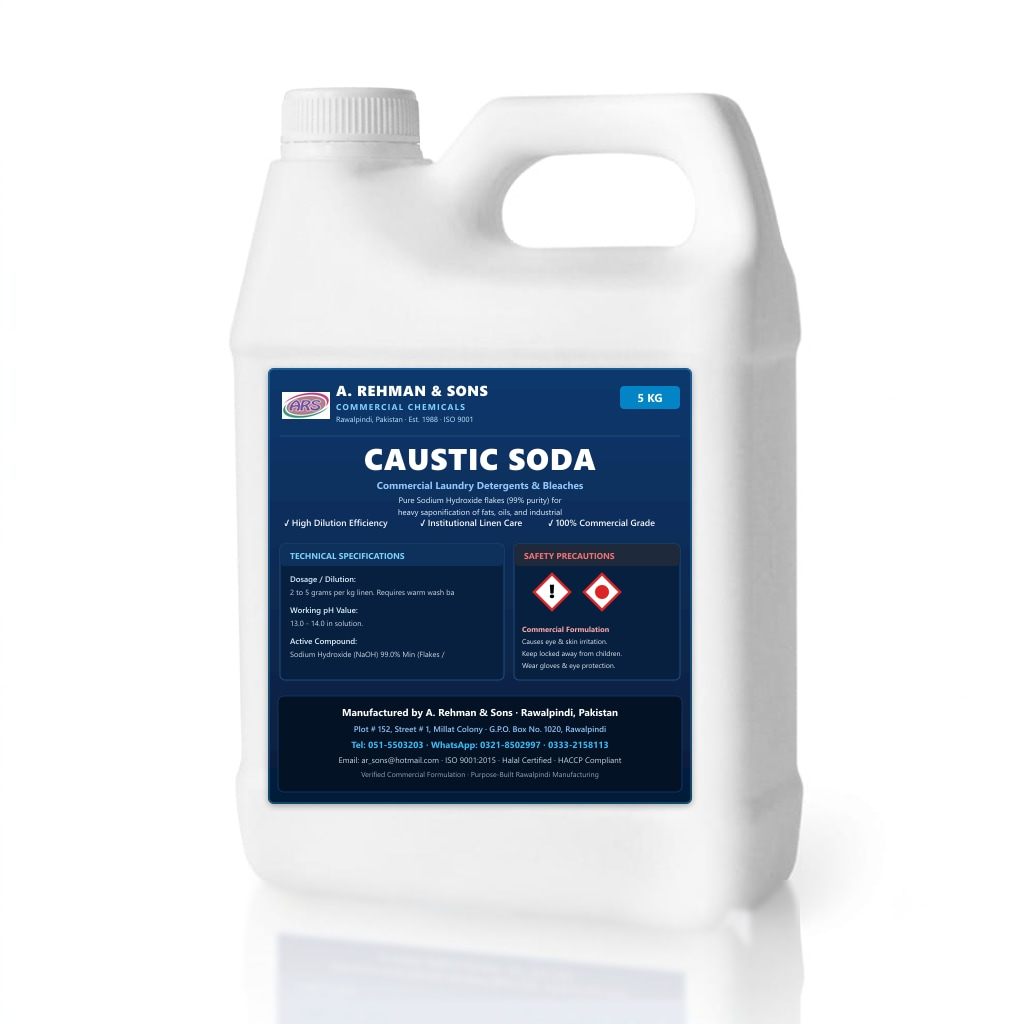
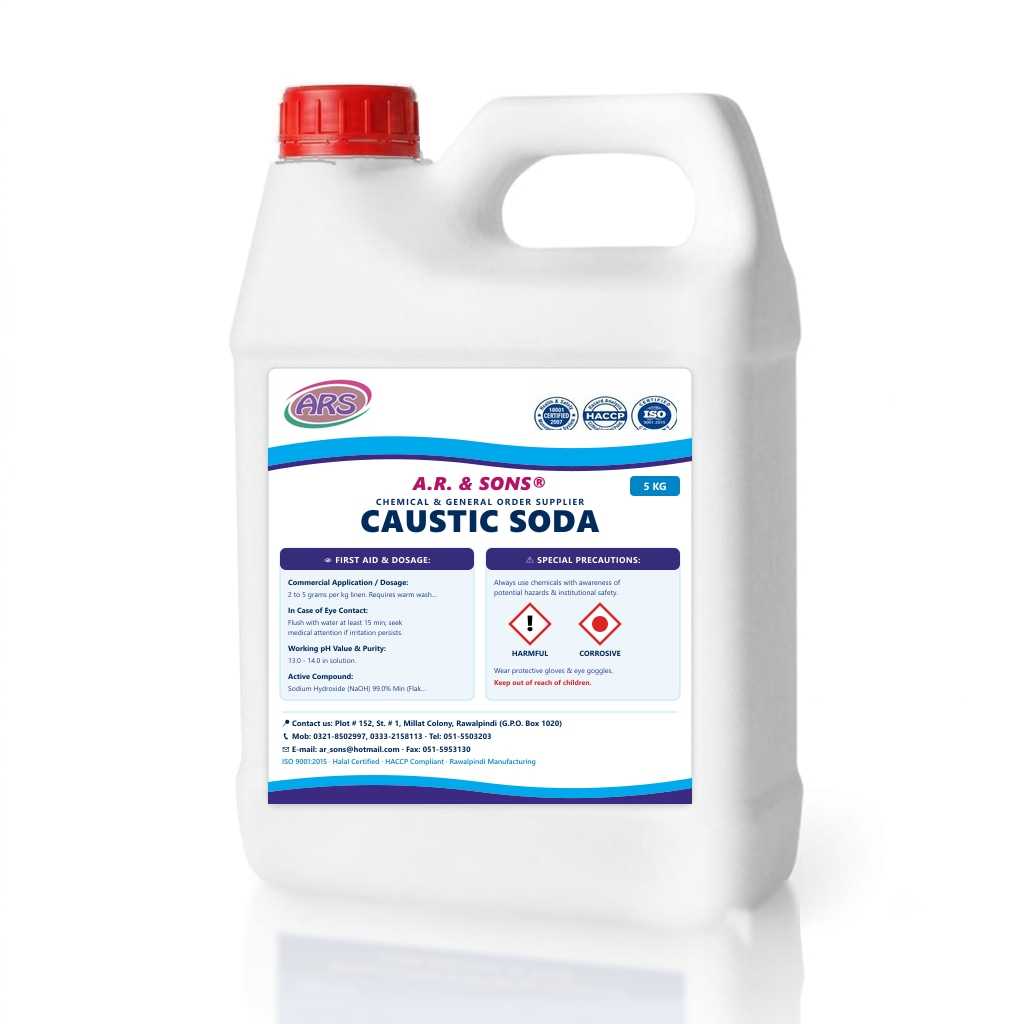
Update all 29 5kg mockups to match 25kg red cap and white label theme

Changed region(s): [[0.25, 0.3438, 0.6875, 0.8125], [0.25, 0.0625, 0.4375, 0.1562]]

diff --git a/scripts/generate_5kg_mockups.js b/scripts/generate_5kg_mockups.js
@@ -1,11 +1,14 @@
 /**
- * Generate 5 kg photorealistic product mockups (1024x1024) for all 29 products.
- * Features:
- * - Sealed, realistic ribbed cap on the canister neck.
- * - Perfectly aligned label covering the canister's recessed panel.
- * - Official A. Rehman & Sons (ARS) branding, logo, and Rawalpindi manufacturing credentials.
- * - Accurate contact info (Tel: 051-5503203, WhatsApp: 0321-8502997).
- * - Spotless studio reflection.
+ * Generate 5 kg photorealistic product mockups (1024x1024) matching the 25 kg color theme:
+ * - Bright red ribbed safety cap on top.
+ * - Clean white background label with rounded corners.
+ * - Official ARS oval logo on top-left.
+ * - Three circular certification seals on top-right (ISO 9001, HACCP, OHSAS 18001).
+ * - Cyan & purple ribbon wave banner with magenta "A.R. & SONS®" and navy "CHEMICAL & GENERAL ORDER SUPPLIER".
+ * - High-visibility 5 KG blue badge.
+ * - Deep navy product title.
+ * - Twin light-blue spec boxes with purple pill headers (First Aid/Dosage & Safety Precautions with GHS hazard diamonds).
+ * - Authentic Rawalpindi contact footer & bottom cyan/purple wave border.
  */
 
 const fs = require('fs');
@@ -14,8 +17,9 @@ const sharp = require('sharp');
 const { ARS_PRODUCTS } = require('../js/products.js');
 
 const ROOT = path.join(__dirname, '..');
-const BASE_IMG = path.join(ROOT, 'assets', 'products', 'mockups', '5kg', 'base_5kg_capped_perfect.png');
+const BASE_IMG = path.join(ROOT, 'assets', 'products', 'mockups', '5kg', 'base_5kg_redcap_perfect.png');
 const LOGO_IMG = path.join(ROOT, 'assets', 'logo.png');
+const SEALS_IMG = path.join(ROOT, 'assets', 'products', 'mockups', '5kg', 'seals.png');
 const OUT_DIR = path.join(ROOT, 'assets', 'products', 'mockups', '5kg');
 
 const LABEL = { x: 268, y: 368, w: 424, h: 436 };
@@ -29,140 +33,125 @@ function escapeXml(str) {
     .replace(/"/g, '&quot;');
 }
 
-function wrapText(text, maxChars = 52) {
-  if (!text) return [];
-  const words = text.split(/\s+/).filter(Boolean);
-  const lines = [];
-  let cur = '';
-  for (const w of words) {
-    if ((cur + ' ' + w).trim().length > maxChars) {
-      if (cur) lines.push(cur.trim());
-      cur = w;
-    } else {
-      cur = (cur + ' ' + w).trim();
-    }
-  }
-  if (cur) lines.push(cur.trim());
-  return lines;
+function truncateText(str, maxLen) {
+  if (!str) return '';
+  const clean = String(str).replace(/\s+/g, ' ').trim();
+  if (clean.length <= maxLen) return clean;
+  return clean.slice(0, maxLen - 1) + '…';
 }
-
-const CATEGORY_TAGLINES = {
-  laundry: "Commercial Laundry Detergents & Bleaches",
-  kitchen: "Commercial Kitchen & Dishwashing Solutions",
-  stewarding: "Specialized Stewarding & Destaining Formulations",
-  housekeeping: "Institutional Housekeeping & Facility Care"
-};
-
-const CATEGORY_BULLETS = {
-  laundry: ["✓ High Dilution Efficiency", "✓ Institutional Linen Care", "✓ 100% Commercial Grade"],
-  kitchen: ["✓ Heavy Grease Stripping", "✓ Food-Grade Formulation", "✓ Fast-Acting Degreaser"],
-  stewarding: ["✓ Deep Tannin & Stain Lifter", "✓ Melamine & Urn Safe", "✓ High Dilution Yield"],
-  housekeeping: ["✓ Hospital-Grade Sanitation", "✓ High-Yield Concentration", "✓ Multi-Surface Efficacy"]
-};
 
 function buildSvg(product) {
   const details = product.fullDetails || {};
-  const catTagline = CATEGORY_TAGLINES[product.category] || "Commercial Chemical Formulations";
-  const bullets = CATEGORY_BULLETS[product.category] || CATEGORY_BULLETS.laundry;
+  const dosage = truncateText(details.dosage || '3–8 ml per Kg of dry laundry load', 46);
+  const ph = truncateText(details.ph || '11.0 – 12.0 (Alkaline)', 34);
+  const active = truncateText(details.activeIngredients || 'Commercial active surfactants', 40);
 
-  const dosage = (details.dosage || '3–8 ml per Kg of dry laundry load').slice(0, 48);
-  const ph = (details.ph || '11.0 – 12.0 (Alkaline)').slice(0, 36);
-  const active = (details.activeIngredients || 'High active non-ionic surfactants').slice(0, 44);
-
-  const descLines = wrapText(product.description, 50).slice(0, 2);
-  const nameSize = product.name.length > 20 ? 21 : product.name.length > 14 ? 25 : 30;
+  const nameLen = product.name.length;
+  const nameSize = nameLen > 22 ? 21 : nameLen > 16 ? 24 : nameLen > 12 ? 27 : 31;
 
   return `<?xml version="1.0" encoding="UTF-8"?>
 <svg xmlns="http://www.w3.org/2000/svg" width="1024" height="1024" viewBox="0 0 1024 1024">
   <defs>
-    <linearGradient id="labelBg" x1="0%" y1="0%" x2="0%" y2="100%">
-      <stop offset="0%" stop-color="#0c386e"/>
-      <stop offset="100%" stop-color="#061c38"/>
-    </linearGradient>
-    <filter id="cardShadow" x="-5%" y="-5%" width="110%" height="110%">
-      <feDropShadow dx="0" dy="2" stdDeviation="3" flood-color="#000" flood-opacity="0.3"/>
+    <filter id="labelShadow" x="-5%" y="-5%" width="110%" height="110%">
+      <feDropShadow dx="0" dy="2" stdDeviation="3" flood-color="#000" flood-opacity="0.18"/>
     </filter>
   </defs>
 
-  <!-- Main Label Card -->
-  <rect x="${LABEL.x}" y="${LABEL.y}" width="${LABEL.w}" height="${LABEL.h}" rx="6" fill="url(#labelBg)" filter="url(#cardShadow)"/>
-  <rect x="${LABEL.x + 1}" y="${LABEL.y + 1}" width="${LABEL.w - 2}" height="${LABEL.h - 2}" rx="5" fill="none" stroke="#38bdf8" stroke-width="1.2" opacity="0.45"/>
+  <!-- 1. White Background matching 25kg canister -->
+  <rect x="${LABEL.x}" y="${LABEL.y}" width="${LABEL.w}" height="${LABEL.h}" rx="8" fill="#ffffff" filter="url(#labelShadow)"/>
+  <rect x="${LABEL.x}" y="${LABEL.y}" width="${LABEL.w}" height="${LABEL.h}" rx="8" fill="none" stroke="#cbd5e1" stroke-width="1.2"/>
 
-  <!-- Top Brand Header Bar -->
-  <g transform="translate(${LABEL.x + 12}, ${LABEL.y + 12})">
-    <text x="56" y="16" fill="#ffffff" font-family="'Segoe UI', Arial, sans-serif" font-size="14.5" font-weight="900" letter-spacing="0.5">A. REHMAN &amp; SONS</text>
-    <text x="56" y="30" fill="#7dd3fc" font-family="'Segoe UI', Arial, sans-serif" font-size="8.5" font-weight="700" letter-spacing="1.2">COMMERCIAL CHEMICALS</text>
-    <text x="56" y="42" fill="#bae6fd" font-family="'Segoe UI', Arial, sans-serif" font-size="7.5" font-weight="500">Rawalpindi, Pakistan · Est. 1988 · ISO 9001</text>
+  <!-- 2. Cyan & Purple Ribbon Wave Banner (Exact 25kg style) -->
+  <g transform="translate(${LABEL.x}, ${LABEL.y + 64})">
+    <!-- Cyan upper wave -->
+    <path d="M 0 16 Q 106 -4 212 10 Q 318 24 424 6 L 424 24 Q 318 42 212 28 Q 106 14 0 34 Z" fill="#00a8ec"/>
+    <!-- Purple bottom wave border -->
+    <path d="M 0 34 Q 106 14 212 28 Q 318 42 424 24 L 424 29 Q 318 47 212 33 Q 106 19 0 39 Z" fill="#3c2a82"/>
+
+    <!-- A.R. & SONS in Magenta/Burgundy -->
+    <text x="212" y="58" text-anchor="middle" fill="#b51263" font-family="'Segoe UI', Arial, sans-serif" font-size="18.5" font-weight="900" font-style="italic" letter-spacing="0.5">A.R. &amp; SONS®</text>
     
-    <!-- 5 KG Badge -->
-    <rect x="${LABEL.w - 24 - 60}" y="6" width="60" height="23" rx="4" fill="#0284c7"/>
-    <text x="${LABEL.w - 24 - 30}" y="22" text-anchor="middle" fill="#ffffff" font-family="'Segoe UI', Arial, sans-serif" font-size="11.5" font-weight="800">5 KG</text>
+    <!-- Subtitle in Deep Navy -->
+    <text x="212" y="73" text-anchor="middle" fill="#0c2f68" font-family="'Segoe UI', Arial, sans-serif" font-size="8.8" font-weight="800" letter-spacing="1.2">CHEMICAL &amp; GENERAL ORDER SUPPLIER</text>
+    
+    <!-- 5 KG Badge (Floating right on wave) -->
+    <rect x="${LABEL.w - 62}" y="44" width="50" height="20" rx="4" fill="#0284c7"/>
+    <text x="${LABEL.w - 37}" y="58" text-anchor="middle" fill="#ffffff" font-family="'Segoe UI', Arial, sans-serif" font-size="10.5" font-weight="800">5 KG</text>
   </g>
 
-  <!-- Divider line -->
-  <line x1="${LABEL.x + 12}" y1="${LABEL.y + 68}" x2="${LABEL.x + LABEL.w - 12}" y2="${LABEL.y + 68}" stroke="#1e4976" stroke-width="1.2"/>
-
-  <!-- Product Name Area -->
-  <g transform="translate(${LABEL.x + LABEL.w / 2}, ${LABEL.y + 102})">
-    <text text-anchor="middle" fill="#ffffff" font-family="'Segoe UI', Arial, sans-serif" font-size="${nameSize}" font-weight="900" letter-spacing="0.8">${escapeXml(product.name)}</text>
-    <text y="19" text-anchor="middle" fill="#93c5fd" font-family="'Segoe UI', Arial, sans-serif" font-size="10" font-weight="700">${escapeXml(catTagline)}</text>
-    ${descLines.map((line, idx) => `<text y="${33 + idx * 12}" text-anchor="middle" fill="#e0f2fe" font-family="'Segoe UI', Arial, sans-serif" font-size="8">${escapeXml(line)}</text>`).join('')}
+  <!-- 3. Product Name in Deep Navy Blue (25kg style) -->
+  <g transform="translate(${LABEL.x + LABEL.w / 2}, ${LABEL.y + 164})">
+    <text text-anchor="middle" fill="#002b5c" font-family="'Segoe UI', Arial, sans-serif" font-size="${nameSize}" font-weight="900" letter-spacing="0.8">${escapeXml(product.name)}</text>
   </g>
 
-  <!-- Bullets Row -->
-  <g transform="translate(${LABEL.x + 16}, ${LABEL.y + 158})" fill="#f8fafc" font-family="'Segoe UI', Arial, sans-serif" font-size="9" font-weight="600">
-    <text x="0" y="0">${escapeXml(bullets[0])}</text>
-    <text x="136" y="0">${escapeXml(bullets[1])}</text>
-    <text x="264" y="0">${escapeXml(bullets[2])}</text>
-  </g>
+  <!-- 4. Twin Rounded Blue Spec Boxes (25kg style) -->
+  <g transform="translate(${LABEL.x + 12}, ${LABEL.y + 180})">
+    <!-- LEFT BOX: First Aid / Technical Specs -->
+    <rect x="0" y="0" width="194" height="152" rx="6" fill="#eef6fc" stroke="#bae6fd" stroke-width="1"/>
+    
+    <!-- Purple Pill Header -->
+    <rect x="0" y="0" width="194" height="22" rx="6" fill="#372b7b"/>
+    <text x="97" y="15" text-anchor="middle" fill="#ffffff" font-family="'Segoe UI', Arial, sans-serif" font-size="8.5" font-weight="800" letter-spacing="0.4">👁 FIRST AID &amp; DOSAGE:</text>
+    
+    <!-- Left Box Content -->
+    <text x="8" y="37" fill="#002b5c" font-family="'Segoe UI', Arial, sans-serif" font-size="7.5" font-weight="700">Commercial Application / Dosage:</text>
+    <text x="8" y="49" fill="#1e3a8a" font-family="'Segoe UI', Arial, sans-serif" font-size="7">${escapeXml(dosage)}</text>
+    
+    <text x="8" y="65" fill="#002b5c" font-family="'Segoe UI', Arial, sans-serif" font-size="7.5" font-weight="700">In Case of Eye Contact:</text>
+    <text x="8" y="77" fill="#1e3a8a" font-family="'Segoe UI', Arial, sans-serif" font-size="7">Flush with water at least 15 min; seek</text>
+    <text x="8" y="87" fill="#1e3a8a" font-family="'Segoe UI', Arial, sans-serif" font-size="7">medical attention if irritation persists.</text>
+    
+    <text x="8" y="103" fill="#002b5c" font-family="'Segoe UI', Arial, sans-serif" font-size="7.5" font-weight="700">Working pH Value &amp; Purity:</text>
+    <text x="8" y="115" fill="#1e3a8a" font-family="'Segoe UI', Arial, sans-serif" font-size="7">${escapeXml(ph)}</text>
+    
+    <text x="8" y="131" fill="#002b5c" font-family="'Segoe UI', Arial, sans-serif" font-size="7.5" font-weight="700">Active Compound:</text>
+    <text x="8" y="143" fill="#1e3a8a" font-family="'Segoe UI', Arial, sans-serif" font-size="7">${escapeXml(active)}</text>
 
-  <!-- Info & Safety Twin Boxes -->
-  <g transform="translate(${LABEL.x + 12}, ${LABEL.y + 176})">
-    <!-- Left Box: Tech specs -->
-    <rect x="0" y="0" width="224" height="136" rx="5" fill="#082040" stroke="#1e4b7a" stroke-width="1"/>
-    <rect x="0" y="0" width="224" height="22" rx="5" fill="#0d315b"/>
-    <text x="10" y="15" fill="#7dd3fc" font-family="'Segoe UI', Arial, sans-serif" font-size="8.5" font-weight="700">TECHNICAL SPECIFICATIONS</text>
+    <!-- RIGHT BOX: Special Precautions & GHS Hazard Symbols -->
+    <rect x="206" y="0" width="194" height="152" rx="6" fill="#eef6fc" stroke="#bae6fd" stroke-width="1"/>
     
-    <text x="10" y="38" fill="#e0f2fe" font-family="'Segoe UI', Arial, sans-serif" font-size="8" font-weight="600">Dosage / Dilution:</text>
-    <text x="10" y="51" fill="#cbd5e1" font-family="'Segoe UI', Arial, sans-serif" font-size="7.5">${escapeXml(dosage)}</text>
+    <!-- Purple Pill Header -->
+    <rect x="206" y="0" width="194" height="22" rx="6" fill="#372b7b"/>
+    <text x="303" y="15" text-anchor="middle" fill="#ffffff" font-family="'Segoe UI', Arial, sans-serif" font-size="8.5" font-weight="800" letter-spacing="0.4">⚠ SPECIAL PRECAUTIONS:</text>
     
-    <text x="10" y="69" fill="#e0f2fe" font-family="'Segoe UI', Arial, sans-serif" font-size="8" font-weight="600">Working pH Value:</text>
-    <text x="10" y="82" fill="#cbd5e1" font-family="'Segoe UI', Arial, sans-serif" font-size="7.5">${escapeXml(ph)}</text>
+    <!-- Right Box Content -->
+    <text x="214" y="37" fill="#1e3a8a" font-family="'Segoe UI', Arial, sans-serif" font-size="7.2">Always use chemicals with awareness of</text>
+    <text x="214" y="47" fill="#1e3a8a" font-family="'Segoe UI', Arial, sans-serif" font-size="7.2">potential hazards &amp; institutional safety.</text>
     
-    <text x="10" y="100" fill="#e0f2fe" font-family="'Segoe UI', Arial, sans-serif" font-size="8" font-weight="600">Active Compound:</text>
-    <text x="10" y="113" fill="#cbd5e1" font-family="'Segoe UI', Arial, sans-serif" font-size="7.5">${escapeXml(active)}</text>
-
-    <!-- Right Box: GHS Warning -->
-    <rect x="234" y="0" width="166" height="136" rx="5" fill="#082040" stroke="#1e4b7a" stroke-width="1"/>
-    <rect x="234" y="0" width="166" height="22" rx="5" fill="#1e293b"/>
-    <text x="244" y="15" fill="#f87171" font-family="'Segoe UI', Arial, sans-serif" font-size="8.5" font-weight="800">SAFETY PRECAUTIONS</text>
-    
-    <!-- Red Diamond 1: Exclamation -->
-    <g transform="translate(254, 30)">
-      <polygon points="18,0 36,18 18,36 0,18" fill="#ffffff" stroke="#dc2626" stroke-width="2.5"/>
-      <text x="18" y="24" text-anchor="middle" fill="#000000" font-family="sans-serif" font-size="19" font-weight="900">!</text>
+    <!-- GHS Diamond 1: Harmful (!) -->
+    <g transform="translate(230, 56)">
+      <polygon points="20,0 40,20 20,40 0,20" fill="#ffffff" stroke="#dc2626" stroke-width="2.5"/>
+      <text x="20" y="27" text-anchor="middle" fill="#000000" font-family="sans-serif" font-size="22" font-weight="900">!</text>
+      <text x="20" y="52" text-anchor="middle" fill="#002b5c" font-family="'Segoe UI', Arial, sans-serif" font-size="7.5" font-weight="800">HARMFUL</text>
     </g>
-    <!-- Red Diamond 2: Corrosive -->
-    <g transform="translate(304, 30)">
-      <polygon points="18,0 36,18 18,36 0,18" fill="#ffffff" stroke="#dc2626" stroke-width="2.5"/>
-      <circle cx="18" cy="18" r="7" fill="#dc2626"/>
+
+    <!-- GHS Diamond 2: Corrosive -->
+    <g transform="translate(300, 56)">
+      <polygon points="20,0 40,20 20,40 0,20" fill="#ffffff" stroke="#dc2626" stroke-width="2.5"/>
+      <circle cx="20" cy="20" r="8" fill="#dc2626"/>
+      <text x="20" y="52" text-anchor="middle" fill="#002b5c" font-family="'Segoe UI', Arial, sans-serif" font-size="7.5" font-weight="800">CORROSIVE</text>
     </g>
 
-    <text x="242" y="88" fill="#fca5a5" font-family="'Segoe UI', Arial, sans-serif" font-size="7.5" font-weight="700">Commercial Formulation</text>
-    <text x="242" y="100" fill="#e2e8f0" font-family="'Segoe UI', Arial, sans-serif" font-size="7">Causes eye &amp; skin irritation.</text>
-    <text x="242" y="112" fill="#e2e8f0" font-family="'Segoe UI', Arial, sans-serif" font-size="7">Keep locked away from children.</text>
-    <text x="242" y="124" fill="#e2e8f0" font-family="'Segoe UI', Arial, sans-serif" font-size="7">Wear gloves &amp; eye protection.</text>
+    <text x="214" y="125" fill="#1e3a8a" font-family="'Segoe UI', Arial, sans-serif" font-size="7">Wear protective gloves &amp; eye goggles.</text>
+    <text x="214" y="137" fill="#dc2626" font-family="'Segoe UI', Arial, sans-serif" font-size="7" font-weight="700">Keep out of reach of children.</text>
   </g>
 
-  <!-- Bottom Manufacturer Footer Bar -->
-  <g transform="translate(${LABEL.x + 10}, ${LABEL.y + 328})">
-    <rect x="0" y="0" width="${LABEL.w - 20}" height="96" rx="6" fill="#031224" stroke="#0f3560" stroke-width="1"/>
+  <!-- 5. Contact Footer on White (Exact 25kg style) -->
+  <g transform="translate(${LABEL.x + 14}, ${LABEL.y + 344})" fill="#002b5c" font-family="'Segoe UI', Arial, sans-serif">
+    <line x1="0" y1="0" x2="${LABEL.w - 28}" y2="0" stroke="#bae6fd" stroke-width="1"/>
     
-    <text x="${(LABEL.w - 20) / 2}" y="20" text-anchor="middle" fill="#ffffff" font-family="'Segoe UI', Arial, sans-serif" font-size="10" font-weight="800">Manufactured by A. Rehman &amp; Sons · Rawalpindi, Pakistan</text>
-    <text x="${(LABEL.w - 20) / 2}" y="36" text-anchor="middle" fill="#93c5fd" font-family="'Segoe UI', Arial, sans-serif" font-size="8.2" font-weight="600">Plot # 152, Street # 1, Millat Colony · G.P.O. Box No. 1020, Rawalpindi</text>
-    <text x="${(LABEL.w - 20) / 2}" y="52" text-anchor="middle" fill="#38bdf8" font-family="'Segoe UI', Arial, sans-serif" font-size="9" font-weight="700">Tel: 051-5503203 · WhatsApp: 0321-8502997 · 0333-2158113</text>
-    <text x="${(LABEL.w - 20) / 2}" y="67" text-anchor="middle" fill="#cbd5e1" font-family="'Segoe UI', Arial, sans-serif" font-size="8">Email: ar_sons@hotmail.com · ISO 9001:2015 · Halal Certified · HACCP Compliant</text>
-    <text x="${(LABEL.w - 20) / 2}" y="81" text-anchor="middle" fill="#94a3b8" font-family="'Segoe UI', Arial, sans-serif" font-size="7.2">Verified Commercial Formulation · Purpose-Built Rawalpindi Manufacturing</text>
+    <text x="0" y="14" font-size="7.8" font-weight="700">📍 Contact us: Plot # 152, St. # 1, Millat Colony, Rawalpindi (G.P.O. Box 1020)</text>
+    <text x="0" y="27" font-size="7.8" font-weight="700">📞 Mob: 0321-8502997, 0333-2158113 · Tel: 051-5503203</text>
+    <text x="0" y="40" font-size="7.8" font-weight="700">✉ E-mail: ar_sons@hotmail.com · Fax: 051-5953130</text>
+    <text x="0" y="52" font-size="7.2" fill="#0284c7" font-weight="600">ISO 9001:2015 · Halal Certified · HACCP Compliant · Rawalpindi Manufacturing</text>
+  </g>
+
+  <!-- 6. Bottom Cyan & Purple Wave (Exact 25kg style) -->
+  <g transform="translate(${LABEL.x}, ${LABEL.y + 404})">
+    <!-- Upper cyan wave -->
+    <path d="M 0 10 Q 106 -4 212 10 Q 318 24 424 6 L 424 16 Q 318 34 212 20 Q 106 6 0 20 Z" fill="#00a8ec"/>
+    <!-- Bottom purple wave -->
+    <path d="M 0 20 Q 106 6 212 20 Q 318 34 424 16 L 424 32 L 0 32 Z" fill="#3c2a82"/>
   </g>
 </svg>`;
 }
@@ -176,7 +165,12 @@ async function main() {
 
   const baseBuffer = await sharp(BASE_IMG).toBuffer();
   const logoBuffer = await sharp(LOGO_IMG)
-    .resize(48, 48, { fit: 'contain', background: { r: 0, g: 0, b: 0, alpha: 0 } })
+    .resize(92, 54, { fit: 'contain', background: { r: 255, g: 255, b: 255, alpha: 0 } })
+    .png()
+    .toBuffer();
+
+  const sealsBuffer = await sharp(SEALS_IMG)
+    .resize(150, 52, { fit: 'contain', background: { r: 255, g: 255, b: 255, alpha: 0 } })
     .png()
     .toBuffer();
 
@@ -188,7 +182,8 @@ async function main() {
     const finalBuf = await sharp(baseBuffer)
       .composite([
         { input: overlayBuffer, top: 0, left: 0 },
-        { input: logoBuffer, top: LABEL.y + 14, left: LABEL.x + 14 }
+        { input: logoBuffer, top: LABEL.y + 10, left: LABEL.x + 14 },
+        { input: sealsBuffer, top: LABEL.y + 10, left: LABEL.x + LABEL.w - 14 - 150 }
       ])
       .jpeg({ quality: 94, mozjpeg: true })
       .toBuffer();
@@ -196,7 +191,7 @@ async function main() {
     const outPath = path.join(OUT_DIR, `${product.id}.jpg`);
     fs.writeFileSync(outPath, finalBuf);
     count++;
-    console.log(`[${count}/${ARS_PRODUCTS.length}] Generated 5kg mockup for ${product.id}`);
+    console.log(`[${count}/${ARS_PRODUCTS.length}] Generated 25kg-matched 5kg mockup for ${product.id}`);
   }
 
   // Also update reference-5kg-zepol-sc100.png with the official capped SC100
@@ -207,14 +202,15 @@ async function main() {
     await sharp(baseBuffer)
       .composite([
         { input: overlay, top: 0, left: 0 },
-        { input: logoBuffer, top: LABEL.y + 14, left: LABEL.x + 14 }
+        { input: logoBuffer, top: LABEL.y + 10, left: LABEL.x + 14 },
+        { input: sealsBuffer, top: LABEL.y + 10, left: LABEL.x + LABEL.w - 14 - 150 }
       ])
       .png()
       .toFile(path.join(OUT_DIR, 'reference-5kg-zepol-sc100.png'));
-    console.log("Updated reference-5kg-zepol-sc100.png with capped bottle & official ARS credentials");
+    console.log("Updated reference-5kg-zepol-sc100.png with 25kg-matched theme");
   }
 
-  console.log(`\nSuccessfully created all ${count} 5kg product mockups with sealed cap & official ARS credentials!`);
+  console.log(`\nSuccessfully created all ${count} 5kg product mockups matching the 25kg color theme!`);
 }
 
 main().catch(err => {
